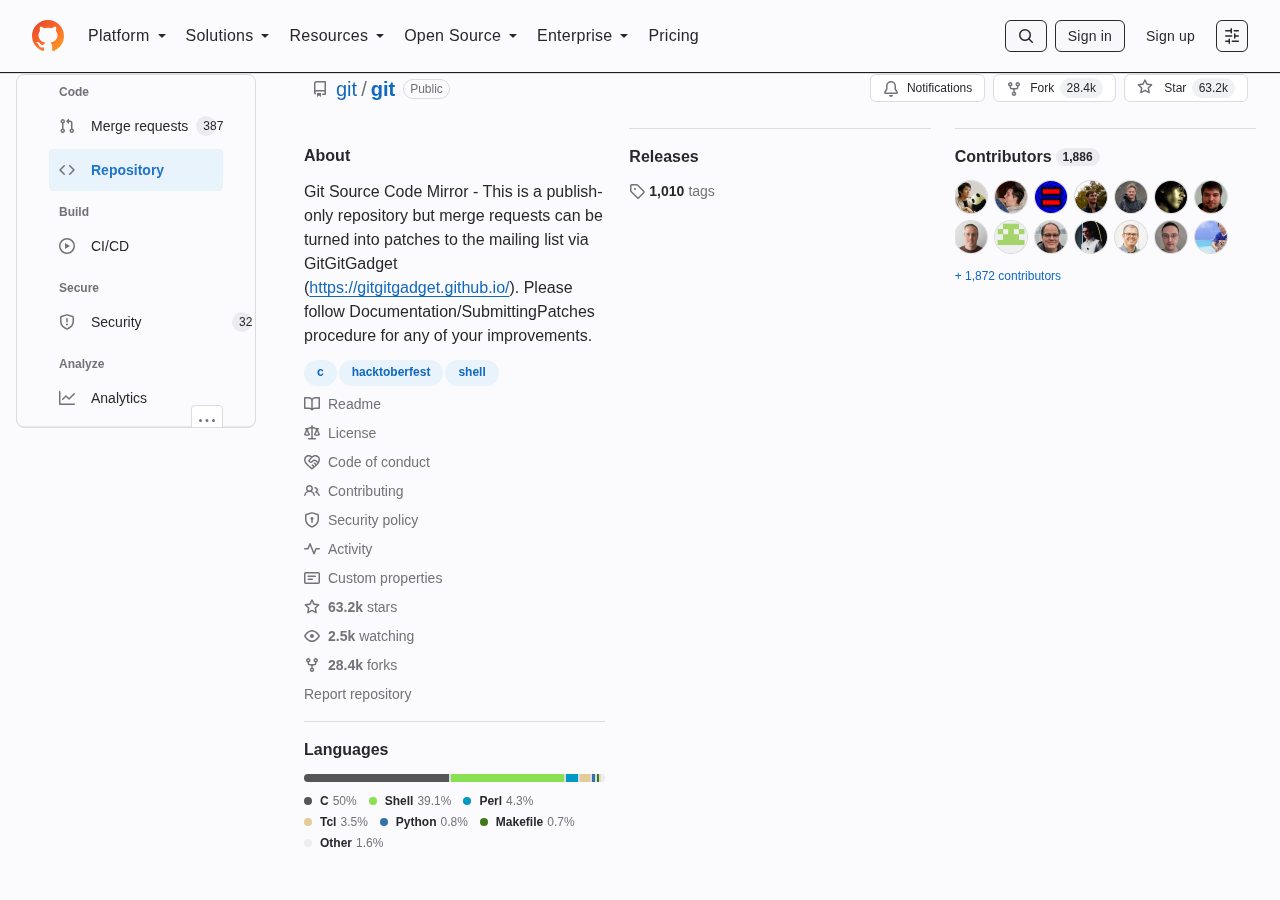
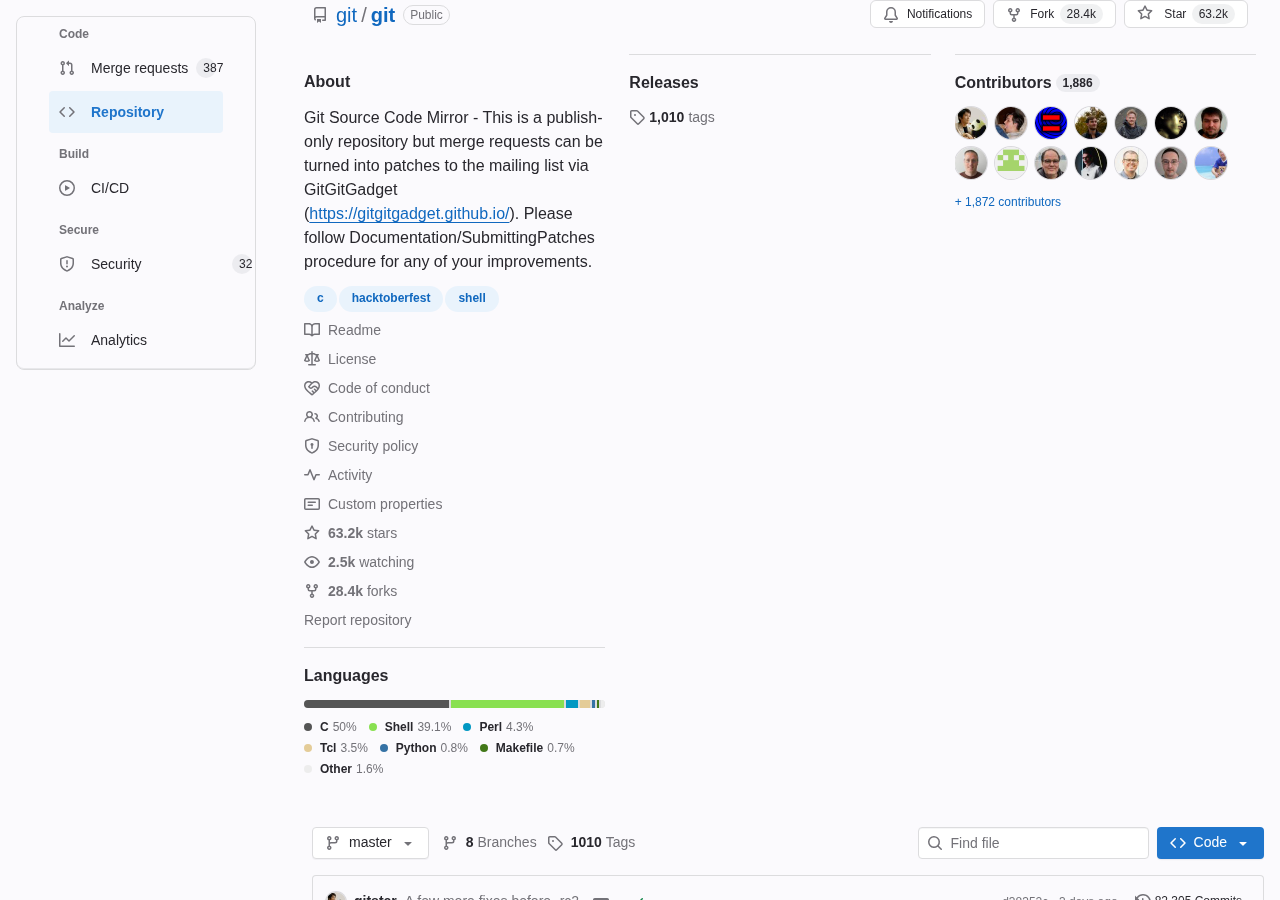
feat(ux): hide GitHub's top bar on the GitLab skin
GitLab has no equivalent of GitHub's top bar — its navigation is the sidebar
alone — so the header (header[role="banner"], .AppHeader, .js-header-wrapper) is
hidden while the GitLab skin is on. The repo header and the left sidebar carry
the navigation instead.

Regenerates the published G→L preview; README / CONTRIBUTING / UX-PARITY
updated. 107 unit tests pass; web-ext lint clean.

diff --git a/src/themes/github-as-gitlab.css b/src/themes/github-as-gitlab.css
@@ -376,6 +376,18 @@ html.gs-theme-gitlab [class*="CodeViewSidebar-"] {
   column-gap: 24px !important;
 }
 
+/* GitLab has no equivalent of GitHub's top bar — its navigation is the sidebar
+   alone — so on the GitLab skin the header is hidden and the sidebar carries
+   the navigation. */
+html.gs-theme-gitlab :is(
+    header[role="banner"],
+    header.GlobalNav,
+    .AppHeader,
+    .js-header-wrapper
+  ) {
+  display: none !important;
+}
+
 /* GitLab's project sidebar gathers its items under group headings (Plan, Code,
    Build, …); GitHub's repo tabs are flat. On the GitLab skin the tabs are
    gathered under the same headings, inserted by content/ux.js. */

diff --git a/README.md b/README.md
@@ -141,7 +141,7 @@ product's *vocabulary and habits*:
 | ---------- | ---------------------------------------------------------------------------------------------------------------- |
 | Copy       | "Pull request(s)" ⇄ "Merge request(s)", "Insights" ⇄ "Analytics", "Actions" ⇄ "CI/CD", "Go to file" ⇄ "Find file", "Gists" ⇄ "Snippets", "Codespaces" ⇄ "Workspaces" |
 | Navigation | repo tabs are relabelled ("Code" ⇄ "Repository") and reordered into the other product's order — GitLab's repository group included |
-| Orientation | GitHub's repo tabs and profile tabs become a GitLab-style left sidebar/rail (with GitLab group headings), and GitLab's sidebar becomes a horizontal top strip |
+| Orientation | GitHub's top bar is hidden (GitLab has none) and its repo/profile tabs become a GitLab-style left sidebar/rail with GitLab group headings; GitLab's sidebar becomes a horizontal top strip |
 | Metadata | GitHub's right-hand "About" becomes a full-width block on top (GitLab style); GitLab's "Project information" becomes a right sidebar (GitHub style) |
 | References | a pull/merge-request link shows the other product's marker — `#42` ⇄ `!42`                                        |
 | Shortcuts  | the other product's `g`-combos work: on GitHub shown as GitLab, `g m` opens merge requests                        |

diff --git a/CONTRIBUTING.md b/CONTRIBUTING.md
@@ -231,7 +231,9 @@ in `themes/ux-nav.css`.
   and clones them into an overflow menu when they stop fitting the bar, so the
   body items are forced `visibility: visible`. `NAV_GROUPS` gathers the items
   under GitLab's group headings, which the content script inserts after the
-  reorder (`paintNavGroups`), and the CSS styles them.
+  reorder (`paintNavGroups`), and the CSS styles them. GitHub's top bar
+  (`header[role="banner"]`, `.AppHeader`, `.js-header-wrapper`) is hidden, since
+  GitLab has no equivalent.
 - **L→G** makes GitLab's sidebar horizontal, but GitLab's page is a grid
   (`.layout-page.page-with-super-sidebar`), so that grid is collapsed to one
   column first — otherwise the content keeps the narrow column.

diff --git a/docs/UX-PARITY.md b/docs/UX-PARITY.md
@@ -118,7 +118,8 @@ product it imitates does.
   once they stop fitting the bar, so the real rows are forced back on. The
   sidebar sticks while the (very long) content scrolls, and its items are
   gathered under GitLab's group headings (Code, Build, Secure, Analyze), which
-  GitHub's flat tab bar has no notion of.
+  GitHub's flat tab bar has no notion of. GitHub's own top bar is hidden — GitLab
+  has no equivalent, its navigation is the sidebar alone.
 - **L→G** — GitLab's sidebar becomes a horizontal strip. GitLab's page is a grid
   (`.layout-page.page-with-super-sidebar` is `232px 1032px …`, with the sidebar
   in column one), so the grid is collapsed to a single column first — without
